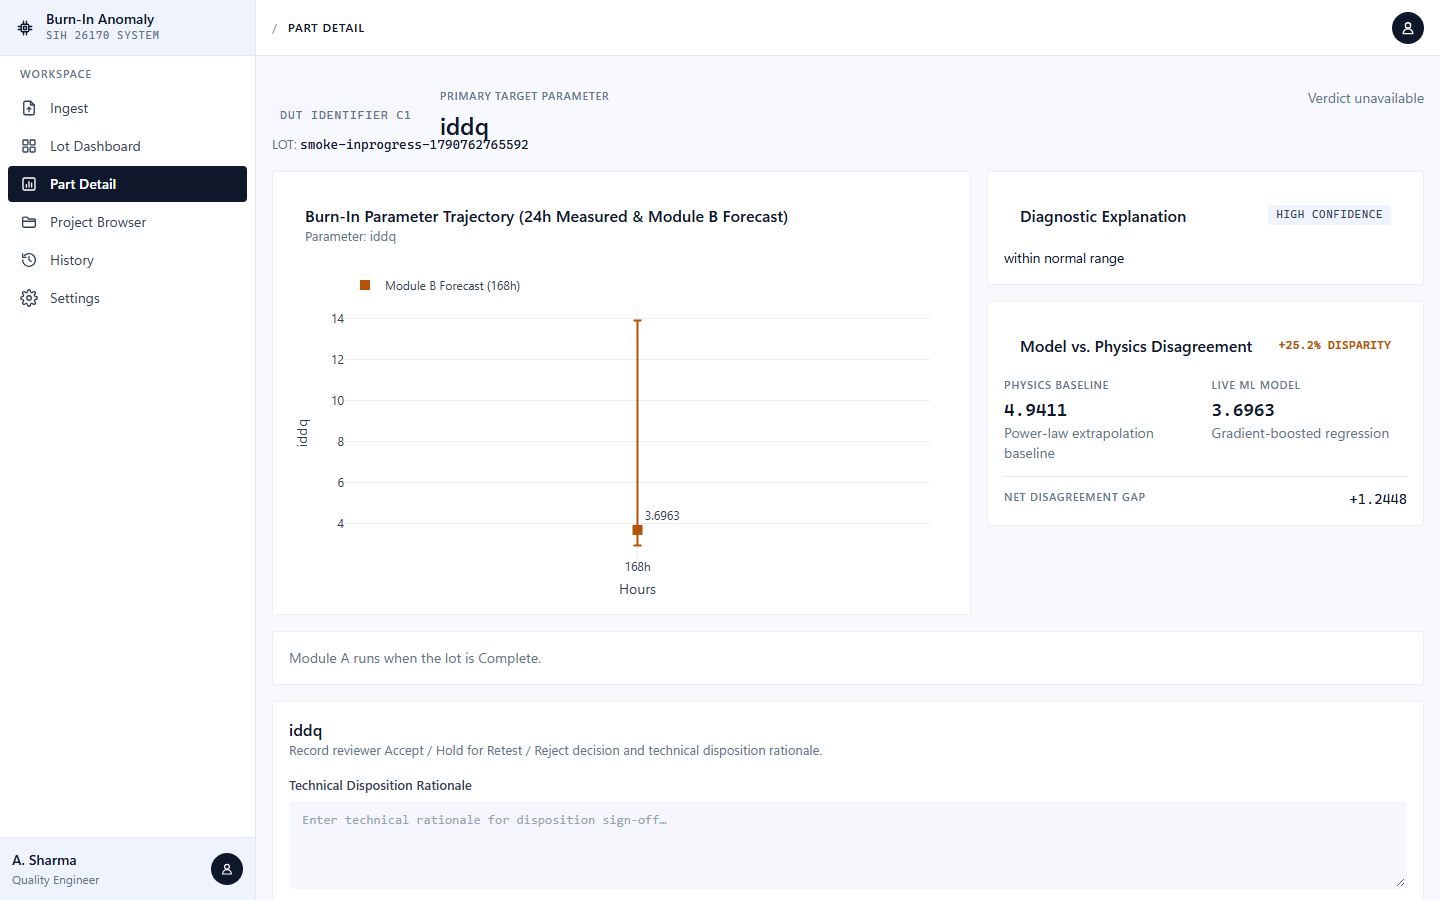
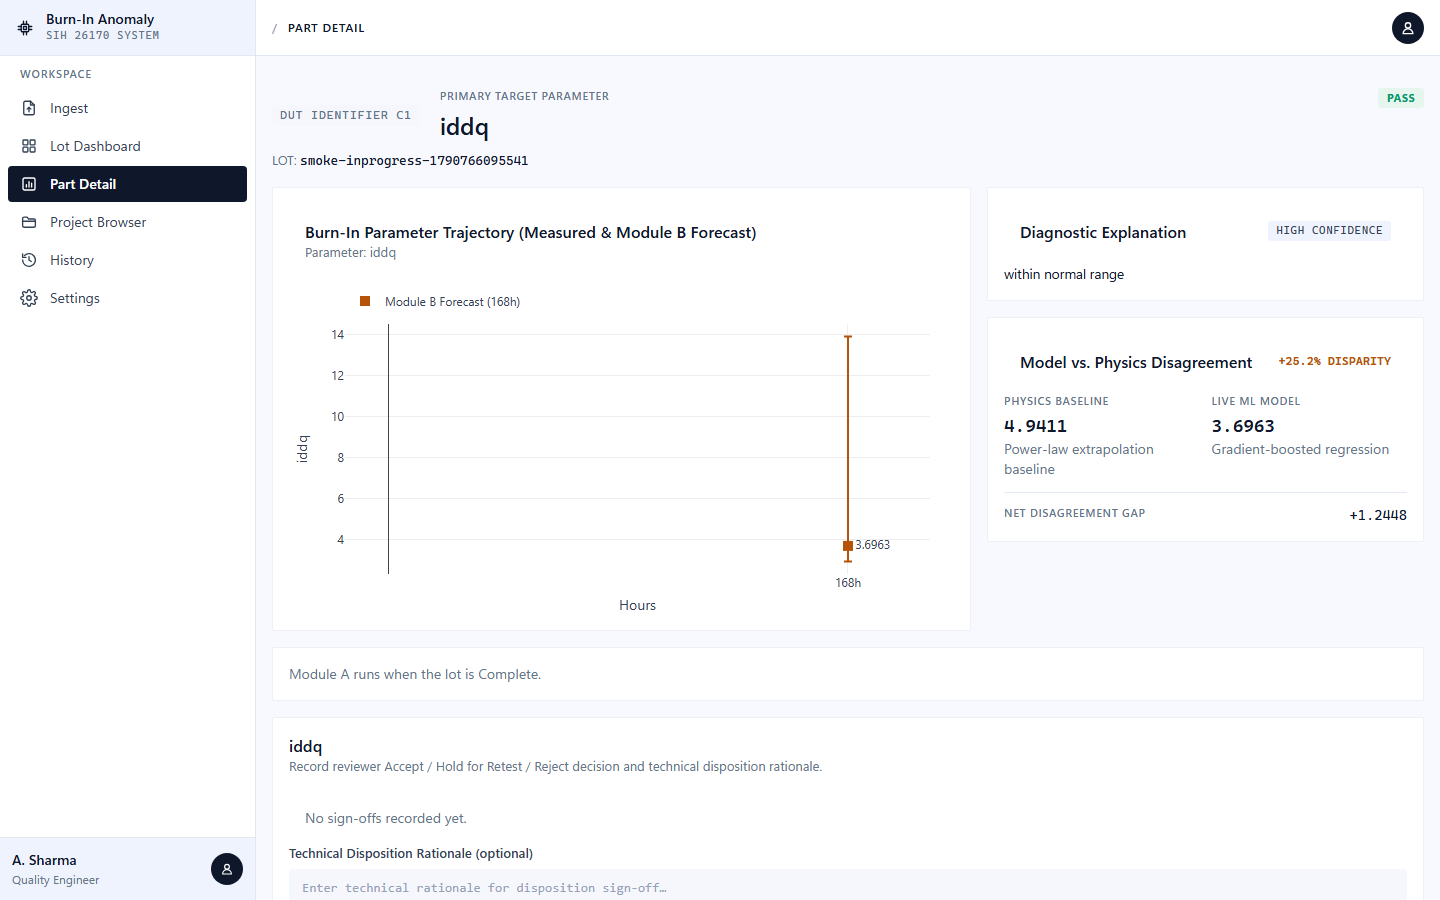
[Lead-as-P1] frontend: round MCD/ECOD/SHAP/z numbers via formatNumber, fix UTF-8 bytes, chart labels and forecast-only chart, header overlap; 14 screenshots + console-error log + hard-refresh check (Block 5D Part 4b-4d)

diff --git a/frontend/scripts/screenshots.ts b/frontend/scripts/screenshots.ts
@@ -1,5 +1,5 @@
 /**
- * Screenshot capture for Block 5C Part 4. Starts `vite dev` on its own port (not the app's
+ * Screenshot capture for Block 5C Part 4, extended in Block 5D Part 4 (14 screenshots, console-error log, hard-refresh check). Starts `vite dev` on its own port (not the app's
  * normal dev port, so it doesn't collide with a real dev session), pointed at this worktree's own
  * backend (default http://localhost:8001; override with VITE_API_BASE_URL), drives it with a real
  * Chromium via Playwright, and writes 1440x900 PNGs into frontend/screenshots/.
@@ -13,13 +13,14 @@
  */
 import { chromium } from '@playwright/test'
 import { execFileSync, spawn, type ChildProcessWithoutNullStreams } from 'node:child_process'
-import { mkdir } from 'node:fs/promises'
+import { mkdir, writeFile } from 'node:fs/promises'
 import path from 'node:path'
 import { fileURLToPath } from 'node:url'
 import { login } from '../src/api/auth'
 import { createApiClient } from '../src/api/client'
 import { getLotSummary } from '../src/api/lotDetail'
 import { listProjects } from '../src/api/lots'
+import { getPartDetail } from '../src/api/parts'
 
 const __dirname = path.dirname(fileURLToPath(import.meta.url))
 const FRONTEND_ROOT = path.resolve(__dirname, '..')
@@ -69,7 +70,18 @@ async function main() {
   const demoSummary = await getLotSummary(apiClient, demoProject.lot_id)
   const flagged = demoSummary.assessments.filter((a) => a.verdict !== 'PASS')
   const flaggedComponent = flagged.reduce((best, a) => (a.module_a_rank > best.module_a_rank ? a : best))
-  console.log(`Complete lot: ${demoProject.lot_id} (flagged part: ${flaggedComponent.component_id})`)
+  // A flagged part with no sign-offs yet, so screenshots 06/10/11 show the same part before, after
+  // the first and after the second sign-off (smoke_live.ts already dispositioned the top one).
+  const byRank = [...flagged].sort((a, b) => b.module_a_rank - a.module_a_rank)
+  let freshComponent = flaggedComponent
+  for (const candidate of byRank) {
+    const detail = await getPartDetail(apiClient, candidate.component_id, demoProject.lot_id)
+    if (detail.disposition_history.length === 0) {
+      freshComponent = candidate
+      break
+    }
+  }
+  console.log(`Complete lot: ${demoProject.lot_id} (flagged part: ${freshComponent.component_id})`)
   console.log(`In-progress lot: ${inProgressProject.lot_id}`)
 
   console.log(`Starting vite dev on port ${VITE_PORT}...`)
@@ -92,6 +104,30 @@ async function main() {
     const browser = await chromium.launch()
     const page = await browser.newPage({ viewport: { width: 1440, height: 900 } })
 
+    // Every console error / uncaught page error of every screen, tagged with the screen it came from.
+    let currentScreen = 'startup'
+    const consoleErrors: string[] = []
+    page.on('console', (msg) => {
+      if (msg.type() === 'error') consoleErrors.push(`[${currentScreen}] console.error: ${msg.text()}`)
+    })
+    page.on('pageerror', (err) => consoleErrors.push(`[${currentScreen}] pageerror: ${err.message}`))
+
+    async function signIn(accountId: string, displayName: string, pin: string) {
+      await page.goto(`${APP_URL}/#/login`)
+      await page.waitForSelector('text=Sign In')
+      await page.getByLabel(displayName).check()
+      await page.getByLabel('PIN').fill(pin)
+      await page.getByRole('button', { name: /^sign in$/i }).click()
+      await page.waitForURL((url) => !url.hash.includes('/login'))
+      console.log(`  signed in as ${accountId}`)
+    }
+
+    async function signOut() {
+      await page.getByRole('button', { name: 'Account menu' }).click()
+      await page.getByRole('button', { name: 'Sign out' }).click()
+      await page.waitForSelector('text=Sign In')
+    }
+
     async function shot(name: string) {
       await page.waitForTimeout(400) // let charts/animations settle
       await page.screenshot({ path: path.join(SCREENSHOT_DIR, `${name}.png`) })
@@ -99,25 +135,44 @@ async function main() {
     }
 
     // 01: Login
+    currentScreen = '01-login'
     await page.goto(`${APP_URL}/#/login`)
     await page.waitForSelector('text=Sign In')
     await shot('01-login')
 
-    // Sign in as a.sharma (already the default-selected account).
-    await page.getByLabel('PIN').fill('1234')
-    await page.getByRole('button', { name: /^sign in$/i }).click()
-    await page.waitForURL(/#\/ingest/)
+    await signIn('a.sharma', 'A. Sharma', '1234')
+
+    // Hard refresh: the token lives in memory only (rule 13), so a reload must land on Login.
+    currentScreen = 'hard-refresh'
+    await page.reload()
+    await page.waitForSelector('text=Sign In')
+    const afterReload = page.url()
+    const tokenPersisted = await page.evaluate(
+      () =>
+        JSON.stringify({ ...localStorage }).toLowerCase().includes('token') ||
+        JSON.stringify({ ...sessionStorage }).toLowerCase().includes('token') ||
+        document.cookie.toLowerCase().includes('token'),
+    )
+    if (!/#\/login/.test(afterReload) || tokenPersisted) {
+      throw new Error(`hard refresh check FAILED: url=${afterReload} tokenPersisted=${tokenPersisted}`)
+    }
+    console.log(`Hard refresh check: PASS - reload landed on ${afterReload}, no token in storage/cookies`)
+
+    await signIn('a.sharma', 'A. Sharma', '1234')
 
     // 02: Ingest
+    currentScreen = '02 Ingest'
     await page.waitForLoadState('networkidle')
     await shot('02-ingest')
 
     // 03: Project Browser
+    currentScreen = '03 Project Browser'
     await page.goto(`${APP_URL}/#/projects`)
     await page.waitForLoadState('networkidle')
     await shot('03-project-browser')
 
     // 04: Lot Dashboard, Complete lot, with a DPA work order generated
+    currentScreen = '04 Lot Dashboard'
     await page.goto(`${APP_URL}/#/lots/${encodeURIComponent(demoProject.lot_id)}`)
     await page.waitForSelector('text=/PDA:/')
     const dpaButton = page.getByRole('button', { name: /generate dpa work order/i })
@@ -128,32 +183,88 @@ async function main() {
     await shot('04-lot-dashboard-complete')
 
     // 05: Lot Dashboard, in-progress lot
+    currentScreen = '05 Lot Dashboard'
     await page.goto(`${APP_URL}/#/lots/${encodeURIComponent(inProgressProject.lot_id)}`)
     await page.waitForSelector('text=/PDA:/')
     await shot('05-lot-dashboard-in-progress')
 
     // 06: Part Detail, flagged part on the Complete lot
-    await page.goto(`${APP_URL}/#/parts/${encodeURIComponent(flaggedComponent.component_id)}`)
+    currentScreen = '06 Part Detail'
+    await page.goto(`${APP_URL}/#/parts/${encodeURIComponent(freshComponent.component_id)}`)
     await page.waitForSelector('h1.screen-title')
     await shot('06-part-detail-flagged-complete')
 
     // 07: Part Detail, a part on the in-progress lot (module_a null)
+    currentScreen = '07 Part Detail'
     await page.goto(`${APP_URL}/#/parts/c1`)
     await page.waitForSelector('h1.screen-title')
     await shot('07-part-detail-in-progress')
 
     // 08: History
+    currentScreen = '08 History'
     await page.goto(`${APP_URL}/#/history`)
     await page.waitForLoadState('networkidle')
     await shot('08-history')
 
     // 09: Settings, with worklist and corrective status loaded
+    currentScreen = '09 Settings'
     await page.goto(`${APP_URL}/#/settings`)
     await page.waitForSelector('text=Corrective Feedback Status')
     await page.waitForSelector('text=Worklist')
     await shot('09-settings')
 
+    // 10-11: the fresh flagged part, first sign-off as a.sharma, second as r.mehta.
+    currentScreen = '10-11 the fresh flagged part'
+    const freshPath = `${APP_URL}/#/parts/${encodeURIComponent(freshComponent.component_id)}`
+    await page.goto(freshPath)
+    await page.waitForSelector('h1.screen-title')
+    await page.getByLabel(/Technical Disposition Rationale/).fill('Leakage drift confirmed at 24h.')
+    await page.getByRole('button', { name: 'Reject', exact: true }).click()
+    await page.waitForSelector('text=/1 sign-off.s. recorded by distinct accounts/')
+    await shot('10-part-detail-after-first-signoff')
+
+    await signOut()
+    await signIn('r.mehta', 'R. Mehta', '5678')
+    await page.goto(freshPath)
+    await page.waitForSelector('h1.screen-title')
+    await page.getByLabel(/Technical Disposition Rationale/).fill('Concur: reject.')
+    await page.getByRole('button', { name: 'Reject', exact: true }).click()
+    await page.waitForSelector('text=/2 sign-off.s. recorded by distinct accounts/')
+    await shot('11-part-detail-after-second-signoff')
+
+    // 12: History with the timing_flag row (two sign-offs < 2 minutes apart).
+    currentScreen = '12 History with the timing_flag row (two sign-of'
+    await page.goto(`${APP_URL}/#/history`)
+    await page.waitForLoadState('networkidle')
+    await page.waitForSelector('text=/Sign-offs occurred/')
+    await shot('12-history-with-timing-flag')
+
+    // 13-14: error states - abort the screen's own API request and screenshot the visible message.
+    currentScreen = '13-14 error states'
+    currentScreen = '13-lot-dashboard-error-state (request aborted on purpose)'
+    const lotPattern = `**/lots/${encodeURIComponent(demoProject.lot_id)}`
+    await page.route(lotPattern, (route) => route.abort())
+    await page.goto(`${APP_URL}/#/lots/${encodeURIComponent(demoProject.lot_id)}`)
+    await page.waitForSelector('[role=alert]', { timeout: 45000 })
+    await shot('13-lot-dashboard-error-state')
+    await page.unroute(lotPattern)
+
+    currentScreen = '14-part-detail-error-state (request aborted on purpose)'
+    const partPattern = `**/parts/${encodeURIComponent(freshComponent.component_id)}*`
+    await page.route(partPattern, (route) => route.abort())
+    await page.goto(freshPath)
+    await page.waitForSelector('[role=alert]', { timeout: 45000 })
+    await shot('14-part-detail-error-state')
+    await page.unroute(partPattern)
+
     await browser.close()
+    await writeFile(
+      path.join(SCREENSHOT_DIR, 'console-errors.txt'),
+      consoleErrors.length > 0
+        ? consoleErrors.join('\n') + '\n'
+        : 'No console errors or uncaught page errors on any screen.\n',
+    )
+    console.log(`Console errors recorded: ${consoleErrors.length}`)
     console.log('\nAll screenshots captured.')
   } finally {
     // `vite.kill()` alone only kills the shell wrapper on Windows (spawned with shell: true),

diff --git a/frontend/src/screens/PartDetailScreen.test.tsx b/frontend/src/screens/PartDetailScreen.test.tsx
@@ -131,7 +131,7 @@ describe('Part Detail screen (E6 screen 4)', () => {
     expect(screen.getByText('High confidence')).toBeInTheDocument()
     // Z-score table.
     expect(screen.getByText('24h Z-Score Table')).toBeInTheDocument()
-    expect(screen.getByText('+4.20 σ')).toBeInTheDocument()
+    expect(screen.getByText('+4.2 σ')).toBeInTheDocument()
     // MCD / ECOD.
     expect(screen.getByText('D² = 28.4')).toBeInTheDocument()
     expect(screen.getByText('O_score = 0.942')).toBeInTheDocument()
@@ -187,7 +187,7 @@ describe('Part Detail screen (E6 screen 4)', () => {
     expect(screen.getByText('Model vs. Physics Disagreement')).toBeInTheDocument()
     expect(screen.getByText(/not available yet/)).toBeInTheDocument()
     const shapCard = screen.getByRole('region', { name: 'SHAP feature contribution' })
-    expect(within(shapCard).getByText('+0.400')).toBeInTheDocument()
+    expect(within(shapCard).getByText('+0.4')).toBeInTheDocument()
   })
 
   test('module_b null hides its sections the same way; the trajectory chart keeps the measured points only', async () => {
@@ -251,6 +251,35 @@ describe('Part Detail screen (E6 screen 4)', () => {
     await screen.findByRole('heading', { level: 1, name: 'Leakage Current' })
     expect(traces().map((x) => x.name)).toEqual(['Measured', 'Lot Median'])
     expect(traces()[0].x).toEqual([0, 24])
+  })
+
+  test('MCD/ECOD scores and contributions are rounded, never raw floats', async () => {
+    setup(
+      '/parts/DUT-042',
+      DETAIL({
+        module_a: { ...MODULE_A, mcd_distance: 1.3653685606420976, ecod_score: 1.9260380749033121 },
+        explanation: {
+          ...EXPLANATION,
+          mcd_contributions: [{ parameter: 'Leakage Current', contribution: 0.93456789123 }],
+          ecod_dimensions: [{ dimension: 'value_0h', score: 0.76012345678 }],
+        },
+      }),
+    )
+    await screen.findByRole('heading', { level: 1, name: 'Leakage Current' })
+    expect(screen.getByText('D² = 1.3654')).toBeInTheDocument()
+    expect(screen.getByText('O_score = 1.926')).toBeInTheDocument()
+    expect(screen.getByText('0.9346')).toBeInTheDocument()
+    expect(screen.getByText('score = 0.7601')).toBeInTheDocument()
+    expect(document.body.textContent).not.toMatch(/\d\.\d{5,}/)
+  })
+
+  test('a part with a forecast but no stored trajectory still draws the forecast point', async () => {
+    setup(
+      '/parts/DUT-042',
+      DETAIL({ module_a: null, explanation: { ...EXPLANATION, trajectory: [], zscore_table: [] } }),
+    )
+    await screen.findByRole('heading', { level: 1, name: 'Leakage Current' })
+    expect(traces().map((t) => t.name)).toEqual(['Module B Forecast (168h)'])
   })
 
   test('the chart never shows NaN, undefined or null labels', async () => {

diff --git a/frontend/scripts/smoke_live.ts b/frontend/scripts/smoke_live.ts
@@ -24,7 +24,22 @@ const __dirname = path.dirname(fileURLToPath(import.meta.url))
 const BASE_URL = process.env.VITE_API_BASE_URL || 'http://localhost:8001'
 
 let token: string | null = null
-const client = createApiClient({ baseUrl: BASE_URL, getToken: () => token })
+/**
+ * Node's fetch reuses a keep-alive socket that uvicorn (5s keep-alive) may have just closed after a
+ * slow call such as loadDemoLot, which fails a GET with "fetch failed" before it reaches the
+ * server. One retry, GET only (idempotent), for that race - never for a write.
+ */
+async function retryingFetch(request: Request): Promise<Response> {
+  const retry = request.method === 'GET' ? request.clone() : null
+  try {
+    return await fetch(request)
+  } catch (error) {
+    if (!retry) throw error
+    return fetch(retry)
+  }
+}
+
+const client = createApiClient({ baseUrl: BASE_URL, getToken: () => token, fetch: retryingFetch })
 
 function assert(condition: unknown, message: string): asserts condition {
   if (!condition) throw new Error(`FAIL: ${message}`)

diff --git a/frontend/src/index.css b/frontend/src/index.css
@@ -1175,7 +1175,7 @@ a.nav-item.active {
 }
 
 .part-detail-lot {
-  margin-top: -8px;
+  margin-top: 8px;
   font-size: 13px;
   color: var(--muted);
 }
